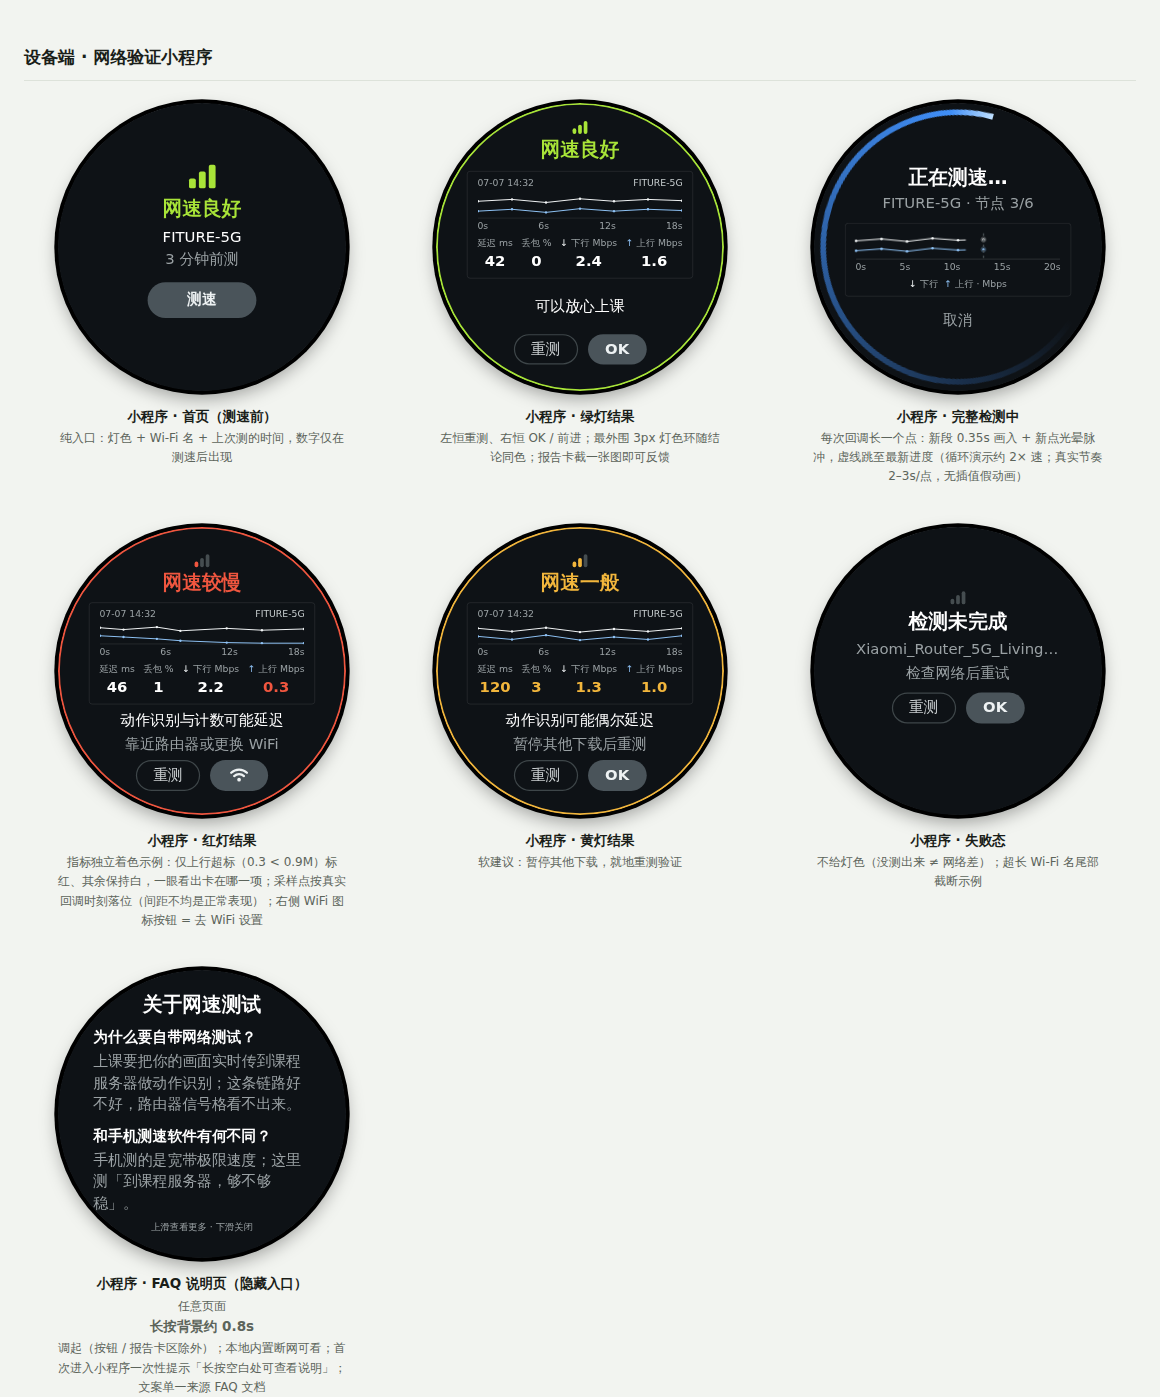
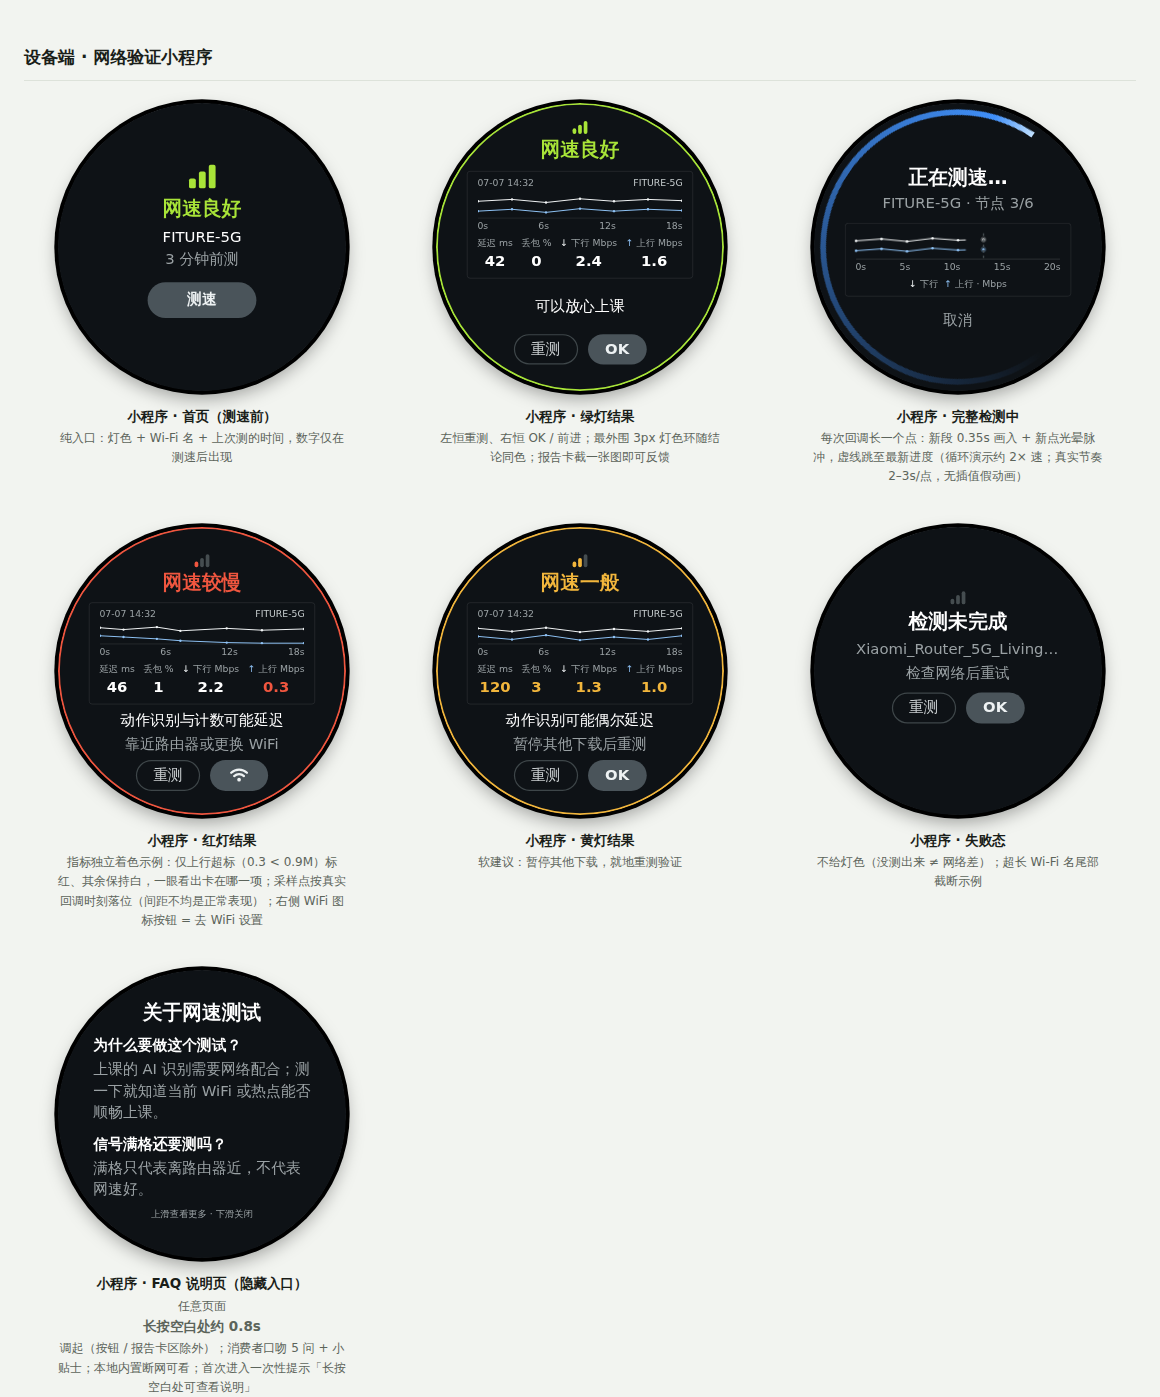
Rewrite FAQ in plain consumer language (5 questions + a tip)
Per review: keep it simple and consumer-facing. Core framing is now
the self-check story - class AI recognition relies on the network, so
this test tells you whether your current WiFi or phone hotspot can
carry a smooth class; full signal bars don't always mean fast internet
(its own question now). Drop engineering detail (bitrates, link
topology) from user-facing copy; fold "good result but still lags" and
support-screenshot guidance into a closing tip. Screen condensed table
and demo FAQ figure updated to match (CN/EN verified on the round
screen); speed-test section image re-exported.

Claude-Session: https://claude.ai/code/session_01GK61VJL6HvXSFdCeuPzjiU

Changed region(s): [[0.0621, 0.7079, 0.2793, 0.8926], [0.031, 0.9234, 0.3103, 1.0], [0.8379, 0.0616, 0.869, 0.0923]]

diff --git a/Demo-界面交互UI设计.html b/Demo-界面交互UI设计.html
@@ -468,15 +468,15 @@
         <div style="flex:.6"></div>
         <div class="big-status" data-en="About this test">关于网速测试</div>
         <div style="width:352px; margin-top:14px; text-align:left; line-height:1.45">
-          <div style="font-size:24px; font-weight:600" data-en="Why a built-in test?">为什么要自带网络测试？</div>
-          <div style="font-size:24px; color:var(--dev-sub); margin-top:4px" data-en="Classes stream your camera for AI tracking — router bars can't show that link.">上课要把你的画面实时传到课程服务器做动作识别；这条链路好不好，路由器信号格看不出来。</div>
-          <div style="font-size:24px; font-weight:600; margin-top:16px" data-en="Vs. phone speed tests?">和手机测速软件有何不同？</div>
-          <div style="font-size:24px; color:var(--dev-sub); margin-top:4px" data-en="Those test broadband peak; this checks the class link.">手机测的是宽带极限速度；这里测「到课程服务器，够不够稳」。</div>
+          <div style="font-size:24px; font-weight:600" data-en="Why this test?">为什么要做这个测试？</div>
+          <div style="font-size:24px; color:var(--dev-sub); margin-top:4px" data-en="Class AI features need a good connection — this checks yours.">上课的 AI 识别需要网络配合；测一下就知道当前 WiFi 或热点能否顺畅上课。</div>
+          <div style="font-size:24px; font-weight:600; margin-top:16px" data-en="Full bars, still test?">信号满格还要测吗？</div>
+          <div style="font-size:24px; color:var(--dev-sub); margin-top:4px" data-en="Full bars &#8800; fast internet — one test tells you.">满格只代表离路由器近，不代表网速好。</div>
         </div>
         <div style="font-size:15px; color:var(--dev-sub); margin-top:12px" data-en="Swipe for more">上滑查看更多 · 下滑关闭</div>
         <div style="flex:1"></div>
       </div></div>
-      <figcaption><b>小程序 · FAQ 说明页（隐藏入口）</b><span>任意页面<b>长按背景约 0.8s</b> 调起（按钮 / 报告卡区除外）；本地内置断网可看；首次进入小程序一次性提示「长按空白处可查看说明」；文案单一来源 FAQ 文档</span></figcaption>
+      <figcaption><b>小程序 · FAQ 说明页（隐藏入口）</b><span>任意页面<b>长按空白处约 0.8s</b> 调起（按钮 / 报告卡区除外）；消费者口吻 5 问 + 小贴士；本地内置断网可看；首次进入一次性提示「长按空白处可查看说明」</span></figcaption>
     </figure>
   </div>
 

diff --git a/FAQ-网速测试常见问题.md b/FAQ-网速测试常见问题.md
@@ -1,58 +1,55 @@
-# FAQ · 网速测试常见问题解答
+# FAQ · 网速测试常见问题
 
-> 触达方式：在网速测试小程序内**长按非按钮区域的背景（约 0.8 秒）**弹出本说明（交互规格见 [PRD-2 A4.9](./PRD-2-网速测试小程序.md)）。本文含两个版本：**完整版**（客服 / 官网 / 手机 App 帮助页用）与**屏上精简版**（466 圆屏逐条文案，字数已裁）。
+> **一句话定位**：这是上课前的**网络自检**——ATOM 上课时的 AI 动作识别等功能需要网络实时配合，测一下，就知道你现在连的 WiFi（或手机热点）能不能顺畅上完一节课。
+>
+> 触达方式：在网速测试小程序内**长按空白处（约 0.8 秒）**打开本说明（交互规格见 [PRD-2 A4.9](./PRD-2-网速测试小程序.md)）。面向消费者，保持简单简洁；客服 / 帮助页直接用完整版，设备上屏用精简版。
 
 ---
 
-## 完整版（6 问）
+## 完整版（5 问 + 1 条小贴士）
 
-### Q1 为什么 ATOM 还需要自己的网络测试？
+### 1. 为什么要做这个测试？
 
-ATOM 上课和「看视频」不一样：它要把**摄像头画面实时上传**到课程服务器做 AI 动作识别与计数，同时把课程内容传回来。上课体验取决于这条「**设备 ⇄ 课程服务器**」的专用链路——而这条链路好不好，路由器上的信号格数、宽带合同上的兆数都看不出来。内置测试测的就是这条**真正用来上课的链路**。
+ATOM 上课时，AI 动作识别等高级功能需要网络实时配合。花半分钟测一下，就知道你现在连的 **WiFi 或手机热点**，能不能顺畅上完一节课。
 
-### Q2 这个测速和 Speedtest / 运营商测速有什么不同？
+### 2. 我家 WiFi 信号满格，还需要测吗？
 
-手机测速工具回答的是「**你家宽带到最近测速节点的极限速度有多快**」，数字通常很大；ATOM 的测试回答的是「**这台设备到课程服务器，按上课实际需要的带宽，够不够、稳不稳**」（上行约 1.5 Mbps / 下行约 2 Mbps）。所以两边结果对不上是正常的：宽带 300M 也可能在这里显示黄灯——瓶颈通常不在宽带，而在 WiFi 信号、路由器负载或跨网链路。**一句话：别人测「有多快」，我们测「上课稳不稳」。**
+需要。**信号满格只代表你离路由器近，不代表网速好**，也不代表上课线路通畅。上课卡不卡，测一次最直接。
 
-### Q3 上行 / 下行是什么意思？跟我有什么关系？
+### 3. 和手机上的测速软件有什么区别？
 
-- **上行** = 你的画面传出去（AI 动作识别、计数、教练看你）——**上行差，你的画面会卡、识别和计数可能延迟**；
-- **下行** = 课程画面传回来——**下行差，课程画面会卡**。
+手机测速测的是「你家网络**最快能跑多快**」；ATOM 测的是「**上一节课够不够用**」。所以两边结果不一定一致——宽带很快，也可能因为 WiFi 信号弱、连的设备太多，在这里显示黄灯。
 
-ATOM 是少见的「上行大户」（多数家用设备只重下行），这也是它比普通设备更挑网络的原因。报告里两条曲线和两个指标分开给，就是为了让你一眼看出卡在哪个方向。
+### 4. 上行、下行是什么意思？
 
-### Q4 显示「网速良好」，为什么上课还是会卡？
+**上行**是你的画面传出去（AI 识别要用它），**下行**是课程画面传回来。上行差，你的画面和动作识别会慢；下行差，课程画面会卡。
 
-测速是**那一刻的采样**，而网络是波动的：家人同时下载、投屏、微波炉、隔墙，都可能让 WiFi 瞬间变差。所以课中我们**持续监测**——一旦变差会在屏幕底部提示，并自动降低画质、自动重连，不需要你操作。如果某个 WiFi 反复出现红灯（通知栏会汇总提醒），建议换 5GHz 频段、靠近路由器或更换网络。
+### 5. 测速费流量吗？会影响家里网络吗？
 
-### Q5 测速会消耗流量、影响家里网络吗？
+只在你点「测速」的时候用一点流量，测完就停，不会后台偷跑。上课期间不能测速，不会影响课程。
 
-会占用**少量带宽**（一次约数十 MB 量级，取决于时长），且**只在你主动点「测速」时发生**，测完即停，绝不后台偷跑。上课期间测速入口自动置灰——测速本身占带宽，不能挤占课程。
-
-### Q6 报告里的数字和曲线是怎么来的？可以用来报障吗？
-
-可以，这正是报告卡的设计目的。曲线上**每个点都是一次真实回传的样本**（不插值、不美化），间距不均匀说明那段时间回传变慢——这本身就是信息；延迟 / 丢包 / 上下行四个数字是整次测试结束后的**汇总结论值**。**整张报告卡截图发给客服**，就能与后台日志对上，无需口述。
+> **小贴士**：显示「网速良好」偶尔也会卡——网络本身会波动（比如家人同时下载）。上课时 ATOM 会持续关注网络，变差会提示你并自动调整，不用你操作。遇到问题，**把结果页截图发给客服**，一张图就够。
 
 ---
 
 ## 屏上精简版（圆屏逐条文案）
 
-> 规格：问题行 24px 白加粗、答案 24px 灰；每问答案 ≤ 3 行（每行 ≤ 15 全角）。EN 供中英切换。
+> 规格：问题 24px 白加粗、答案 24px 灰，每问答案 ≤ 3 行（每行 ≤ 15 全角）；EN 供中英切换。
 
 | # | 问题（CN / EN） | 答案（CN） | 答案（EN） |
 | --- | --- | --- | --- |
-| 1 | 为什么要自带网络测试？/ Why a built-in test? | 上课要把你的画面实时传到课程服务器做动作识别；这条链路好不好，路由器信号格看不出来。 | Classes stream your camera for AI tracking — router bars can't show that link. |
-| 2 | 和手机测速软件有何不同？/ Vs. phone speed tests? | 手机测的是宽带极限速度；这里测「到课程服务器、按上课所需，够不够稳」。结果对不上是正常的。 | Those test broadband peak; this checks the class link. |
-| 3 | 上行 / 下行是什么？/ What are Up / Down? | 上行 = 你的画面传出去，差了识别计数会延迟；下行 = 课程画面传回来，差了课程会卡。 | Up = your camera feed out (AI tracking); Down = class video in. |
-| 4 | 「网速良好」为何还会卡？/ Good result but still lags? | 测速是当下采样，网络会波动；课中持续监测，变差会底部提示并自动降画质、自动重连。 | A test is one moment; we keep watching in class and auto-adapt when it dips. |
-| 5 | 测速费流量吗？/ Does testing cost data? | 占少量带宽，只在你点「测速」时发生，测完即停；课程中入口自动置灰。 | A little, only when you tap Test; never during class. |
-| 6 | 数字和曲线怎么来的？/ Where do the numbers come from? | 每个点都是真实回传样本，四个数字是整次汇总；整卡截图发客服即可对上后台日志。 | Every dot is a real sample; screenshot the card for support. |
+| 1 | 为什么要做这个测试？/ Why this test? | 上课的 AI 识别需要网络配合；测一下就知道当前 WiFi 或热点能否顺畅上课。 | Class AI features need a good connection — this checks yours. |
+| 2 | 信号满格还要测吗？/ Full bars, still test? | 满格只代表离路由器近，不代表网速好；上课卡不卡，测一次最直接。 | Full bars ≠ fast internet — one test tells you. |
+| 3 | 和手机测速有何不同？/ Vs. phone speed tests? | 手机测「最快能跑多快」；这里测「上一节课够不够用」。 | Those test top speed; this tests "enough for class". |
+| 4 | 上行 / 下行是什么？/ Up / Down? | 上行 = 你的画面传出去（AI 识别用）；下行 = 课程画面传回来。 | Up = your camera out; Down = class video in. |
+| 5 | 测速费流量吗？/ Does it cost data? | 只在点「测速」时用一点，测完即停；上课期间不可测速。 | A little, only when you tap Test. |
+| 贴士 | 上课卡了怎么办？/ Lag in class? | 变差会自动提示并调整；把结果页截图发客服，一张图就够。 | We auto-adapt; screenshot the result for support. |
 
 ---
 
 ## 入口与交互（摘要，规格详见 PRD-2 A4.9）
 
-- **触发**：小程序任意页面，长按背景（非按钮 / 非报告卡交互区）**约 0.8s** + 轻震动 → 全屏 FAQ 页；
-- **为什么用隐藏入口**：说明属低频需求，不值得占常驻 UI；困惑发生时（失败态 / 首次使用）再引导——**首次进入小程序在底部一次性提示「长按空白处可查看说明」**；
-- **FAQ 页形态**：标题「关于网速测试」（32px）+ 可滚动 Q&A 列表（问题 24 白粗 / 答案 24 灰）；下滑或点任意空白处关闭，返回原页面且状态保留（测速任务不中断）；
-- 文案变更走本文件，与 PRD 文案表同源管理；上屏字数按精简版表执行。
+- **触发**：小程序任意页面，长按空白处（非按钮 / 非报告卡区）**约 0.8s** + 轻震动 → 全屏 FAQ 页；
+- **发现引导**：首次进入小程序在底部一次性提示「长按空白处可查看说明」；
+- **形态**：标题「关于网速测试」32px + 可滚动 Q&A（问题 24 白粗 / 答案 24 灰）；下滑或点空白关闭，返回原页面且状态保留（测速任务不中断）；内容本地内置，**断网也能看**；
+- 文案单一来源 = 本文件，上屏按精简版表执行。
